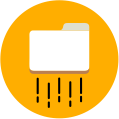
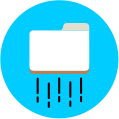
ganti warna produk

diff --git a/ejsc/index.php b/ejsc/index.php
@@ -18,15 +18,15 @@
     <div class="container">
       <div class="row">
         <div class="col-lg-12 text-center">
-          <h2 class="section-heading text-uppercase">Services</h2>
-          <h3 class="section-subheading text-muted">Lorem ipsum dolor sit amet consectetur.</h3>
+          <h2 class="section-heading text-uppercase">Pelayanan</h2>
+          <!--<h3 class="section-subheading text-muted">Lorem ipsum dolor sit amet consectetur.</h3>-->
         </div>
       </div>
       <div class="row text-center">
         <div class="col-md-4">
           <span class="fa-stack fa-4x">
             <!--<i class="fas fa-circle fa-stack-2x text-primary"></i>
-            <i class="fas fa-shopping-cart fa-stack-1x fa-inverse"></i>--><img src="img/macet.png">
+            <i class="fas fa-shopping-cart fa-stack-1x fa-inverse"></ i>--><img src="img/macet1.png">
           </span>
           <h4 class="service-heading">Mudah</h4>
           <p class="text-muted">Lorem ipsum dolor sit amet, consectetur adipisicing elit. Minima maxime quam architecto quo inventore harum ex magni, dicta impedit.</p>
@@ -34,7 +34,7 @@
         <div class="col-md-4">
           <span class="fa-stack fa-4x">
             <!--<i class="fas fa-circle fa-stack-2x text-primary"></i>
-            <i class="fas fa-laptop fa-stack-1x fa-inverse"></i>--><img src="img/cepat.png">
+            <i class="fas fa-laptop fa-stack-1x fa-inverse"></i>--><img src="img/cepat1.png">
           </span>
           <h4 class="service-heading">Cepat</h4>
           <p class="text-muted">Lorem ipsum dolor sit amet, consectetur adipisicing elit. Minima maxime quam architecto quo inventore harum ex magni, dicta impedit.</p>
@@ -42,7 +42,7 @@
         <div class="col-md-4">
           <span class="fa-stack fa-4x">
             <!--<i class="fas fa-circle fa-stack-2x text-primary"></i>
-            <i class="fas fa-lock fa-stack-1x fa-inverse"></i>--><img src="img/aman.png">
+            <i class="fas fa-lock fa-stack-1x fa-inverse"></i>--><img src="img/aman1.png">
           </span>
           <h4 class="service-heading">Aman</h4>
           <p class="text-muted">Lorem ipsum dolor sit amet, consectetur adipisicing elit. Minima maxime quam architecto quo inventore harum ex magni, dicta impedit.</p>
@@ -65,14 +65,15 @@
           <a class="portfolio-link" href="#portfolioModal1">
             <div class="portfolio-hover">
               <div class="portfolio-hover-content">
-                <!--<i class="fas fa-plus fa-3x"></i>--> <i class="btn btn-primary btn-xl text-uppercase js-scroll-trigger" href="#">View</i> 
+                <!--<i class="fas fa-plus fa-3x"></i>-->
               </div>
             </div>
             <img class="img-fluid" src="img/portfolio/produk1.jpg" alt="">
           </a>
           <div class="portfolio-caption">
             <h4>Stationery</h4>
-            <p class="text-muted"></p>
+            <!--<p class="text-muted"></p>-->
+            <i class="btn btn-primary btn-block text-uppercase js-scroll-trigger" href="#">View</i> 
           </div>
         </div>
         <div class="col-md-4 col-sm-6 portfolio-item">
